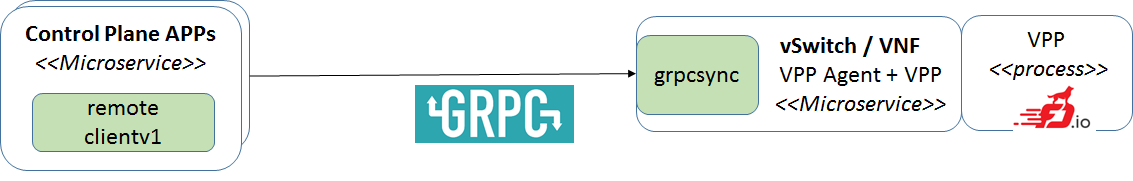
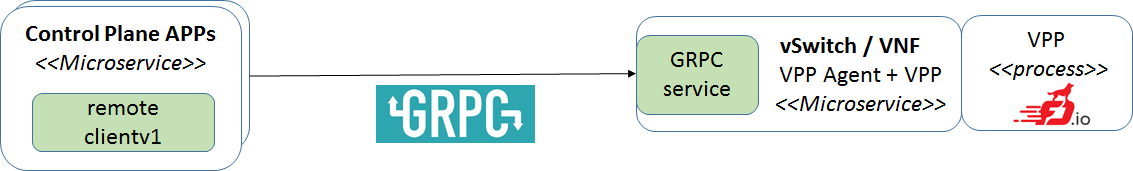
Deployment GRPC

diff --git a/docs/Deployment.md b/docs/Deployment.md
@@ -33,21 +33,19 @@ interface. There are three different implementations of the interface:
  - remote client using Data Broker
  - remote client using GRPC
 
-### Key Value Data Store for NB
-The Control Plane using remote client writes configuration to the Data Store 
+### Key Value Data Store for NB (north-bound)
+The Control Plane using remote client writes (north-bound) configuration to the Data Store
 (tested with ETCD, Redis). VPP Agent watches particular key prefixes in Data 
 Store using dbsync package.
 
 ![deployment with data store](imgs/deployment_with_data_store.png)
 TBD links to the code
 
-### GRPC 
-The Control Plane using remote client sends configuration to the Data Store 
-(tested with ETCD, Redis). VPP Agent watches particular key prefixes in Data 
-Store using grpcsync package.
+### GRPC for NB (north-bound)
+The Control Plane using remote client sends configuration (north-bound)
+via Remote Procedure Call (in this case GRPC). VPP Agent exposes GRPC service.
 
 ![grpc northbound](imgs/deployment_nb_grpc.png)
-TBD links to the code
 
 ### Embedded deployment
 VPP Agent can be embedded in a different project. For integration with 
